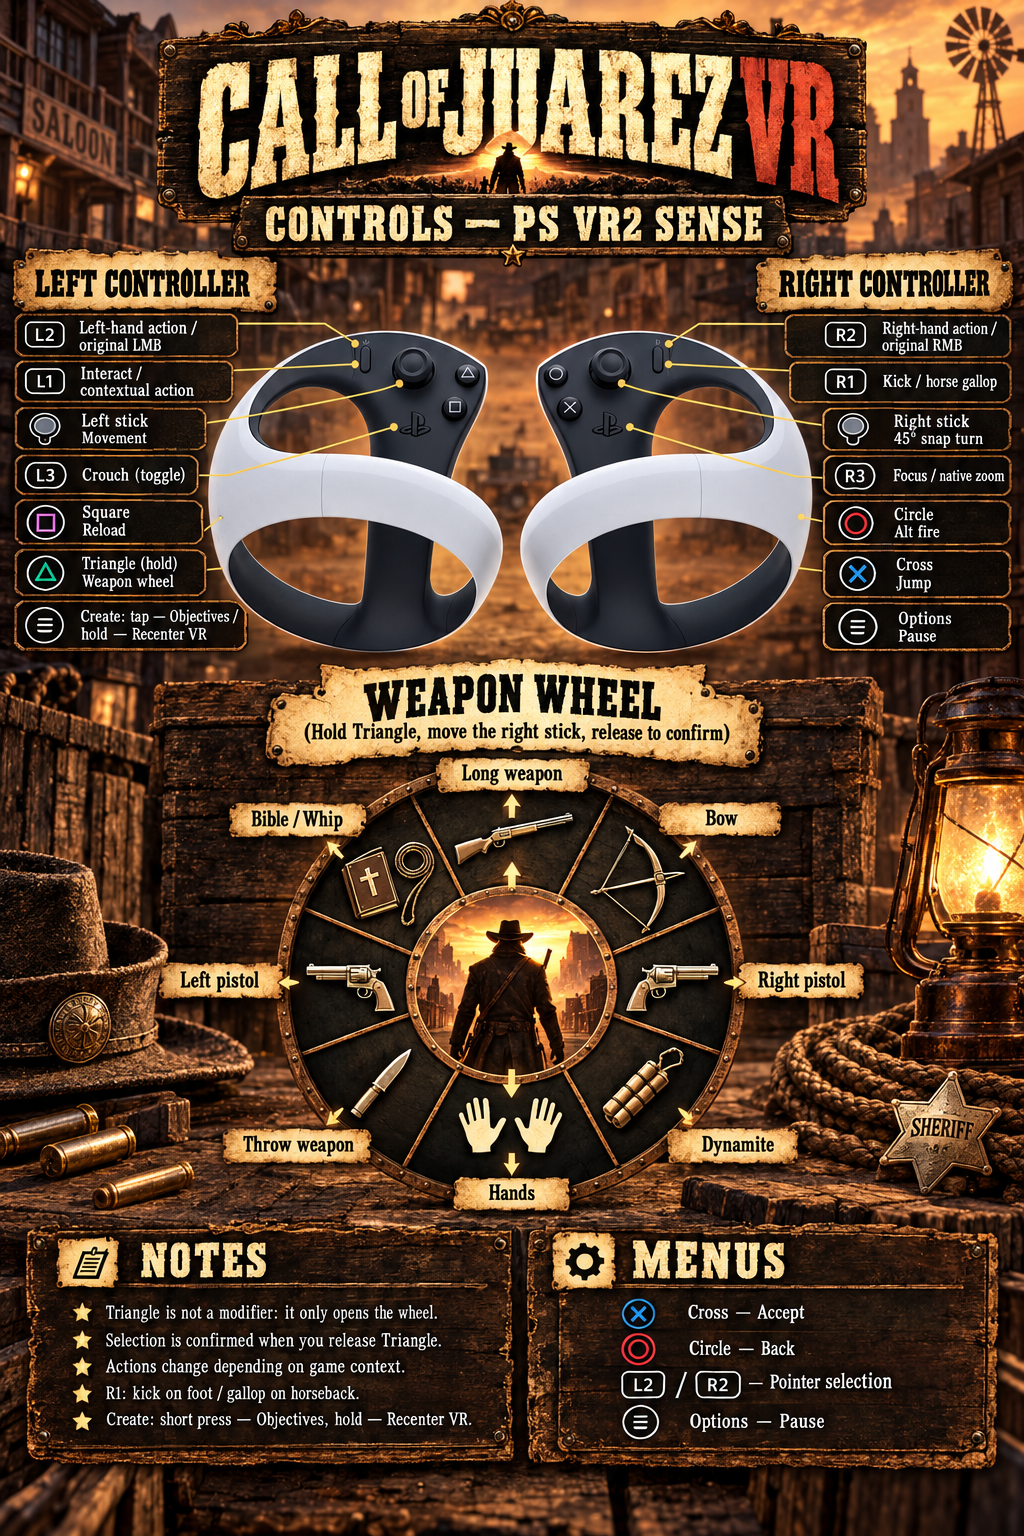
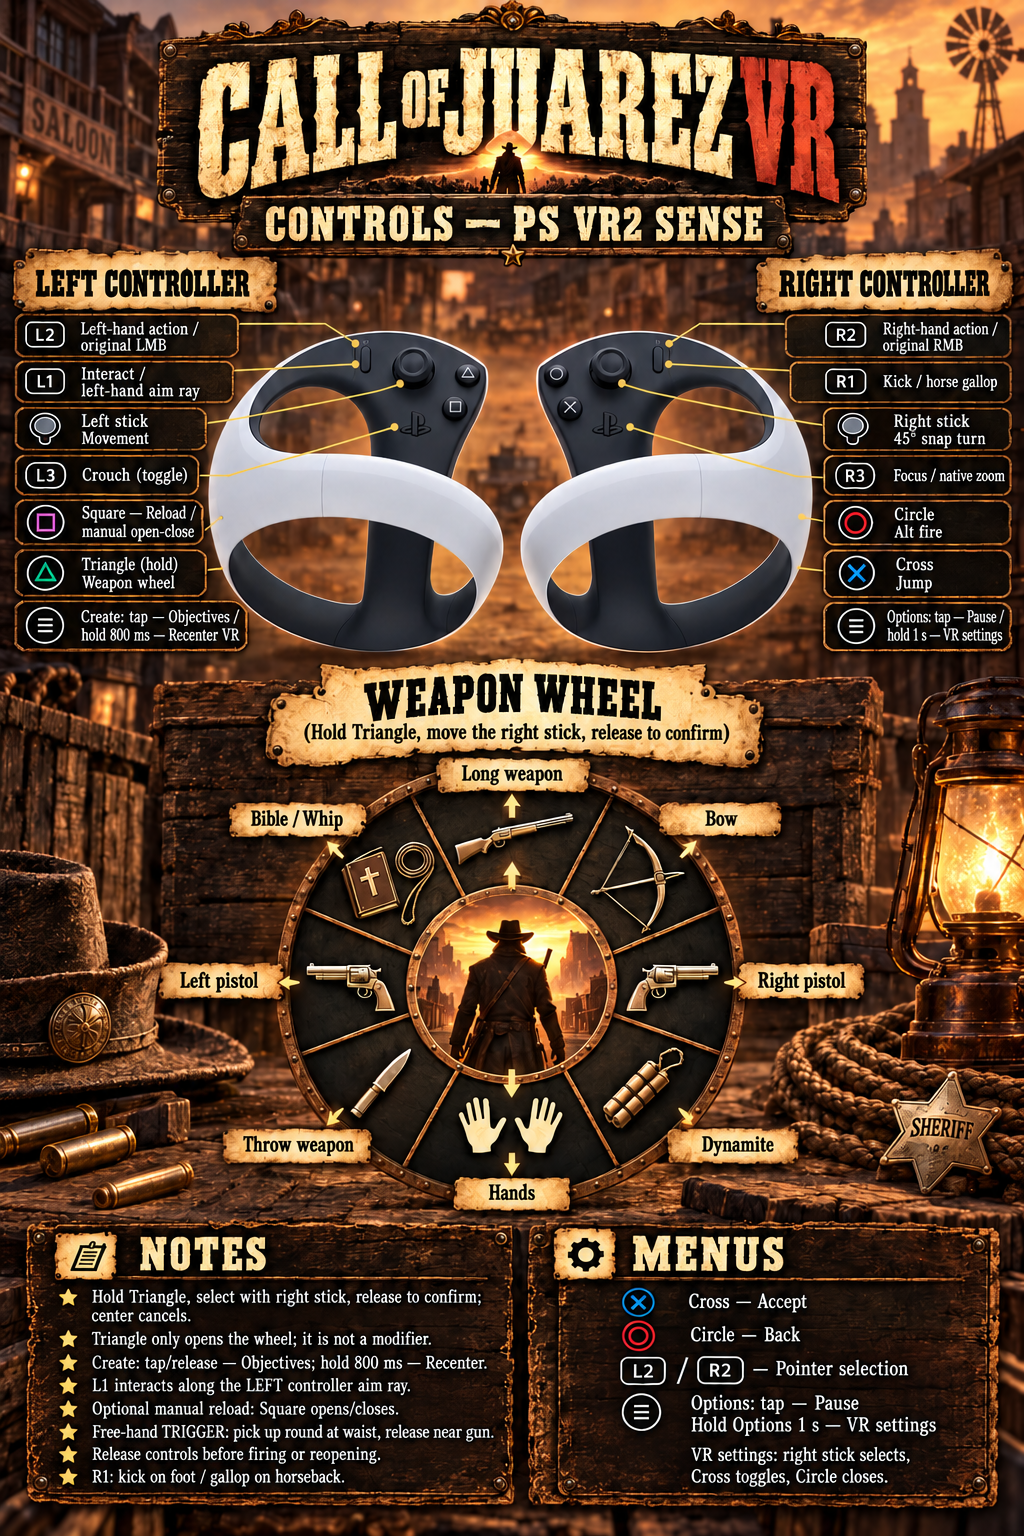
docs(landing): show updated Sense controls poster

diff --git a/README.md b/README.md
@@ -39,6 +39,12 @@ Installation prepares the first play session. Before **every subsequent play ses
 
 PS VR2 Sense is the only physically validated controller reference. Additional packaged bindings are experimental and do not establish compatibility with another headset or PC. See the [controller cheat sheet](release/README.txt) for Sense, Oculus/Meta Touch, Valve Index, Vive wands and WMR, including Touch/Index directional stick-click pause/recenter. Custom SteamVR bindings are allowed; displayed prompts still use Sense labels. [Detailed Sense controls](docs/research/COJ_PC_CONTROLS_AND_HUD.md#default-sense-controls) remain available. No download is announced here yet.
 
+## Controller guide
+
+[![Current PS VR2 Sense controls](assets/CoJ_sensevr.png)](assets/CoJ_sensevr.png)
+
+PS VR2 Sense default bindings. **Hold Options for 1 second** to open VR settings; a short tap pauses on release. Manual reload is optional: Square opens/closes, and the free-hand trigger picks up and inserts rounds. For the other experimental controller profiles, see the [controls cheat sheet](release/README.txt).
+
 ## Known limitations
 
 - A chest/possible-scroll interaction has caused a campaign crash. Its cause and recovery remain unresolved; progress can be lost.
